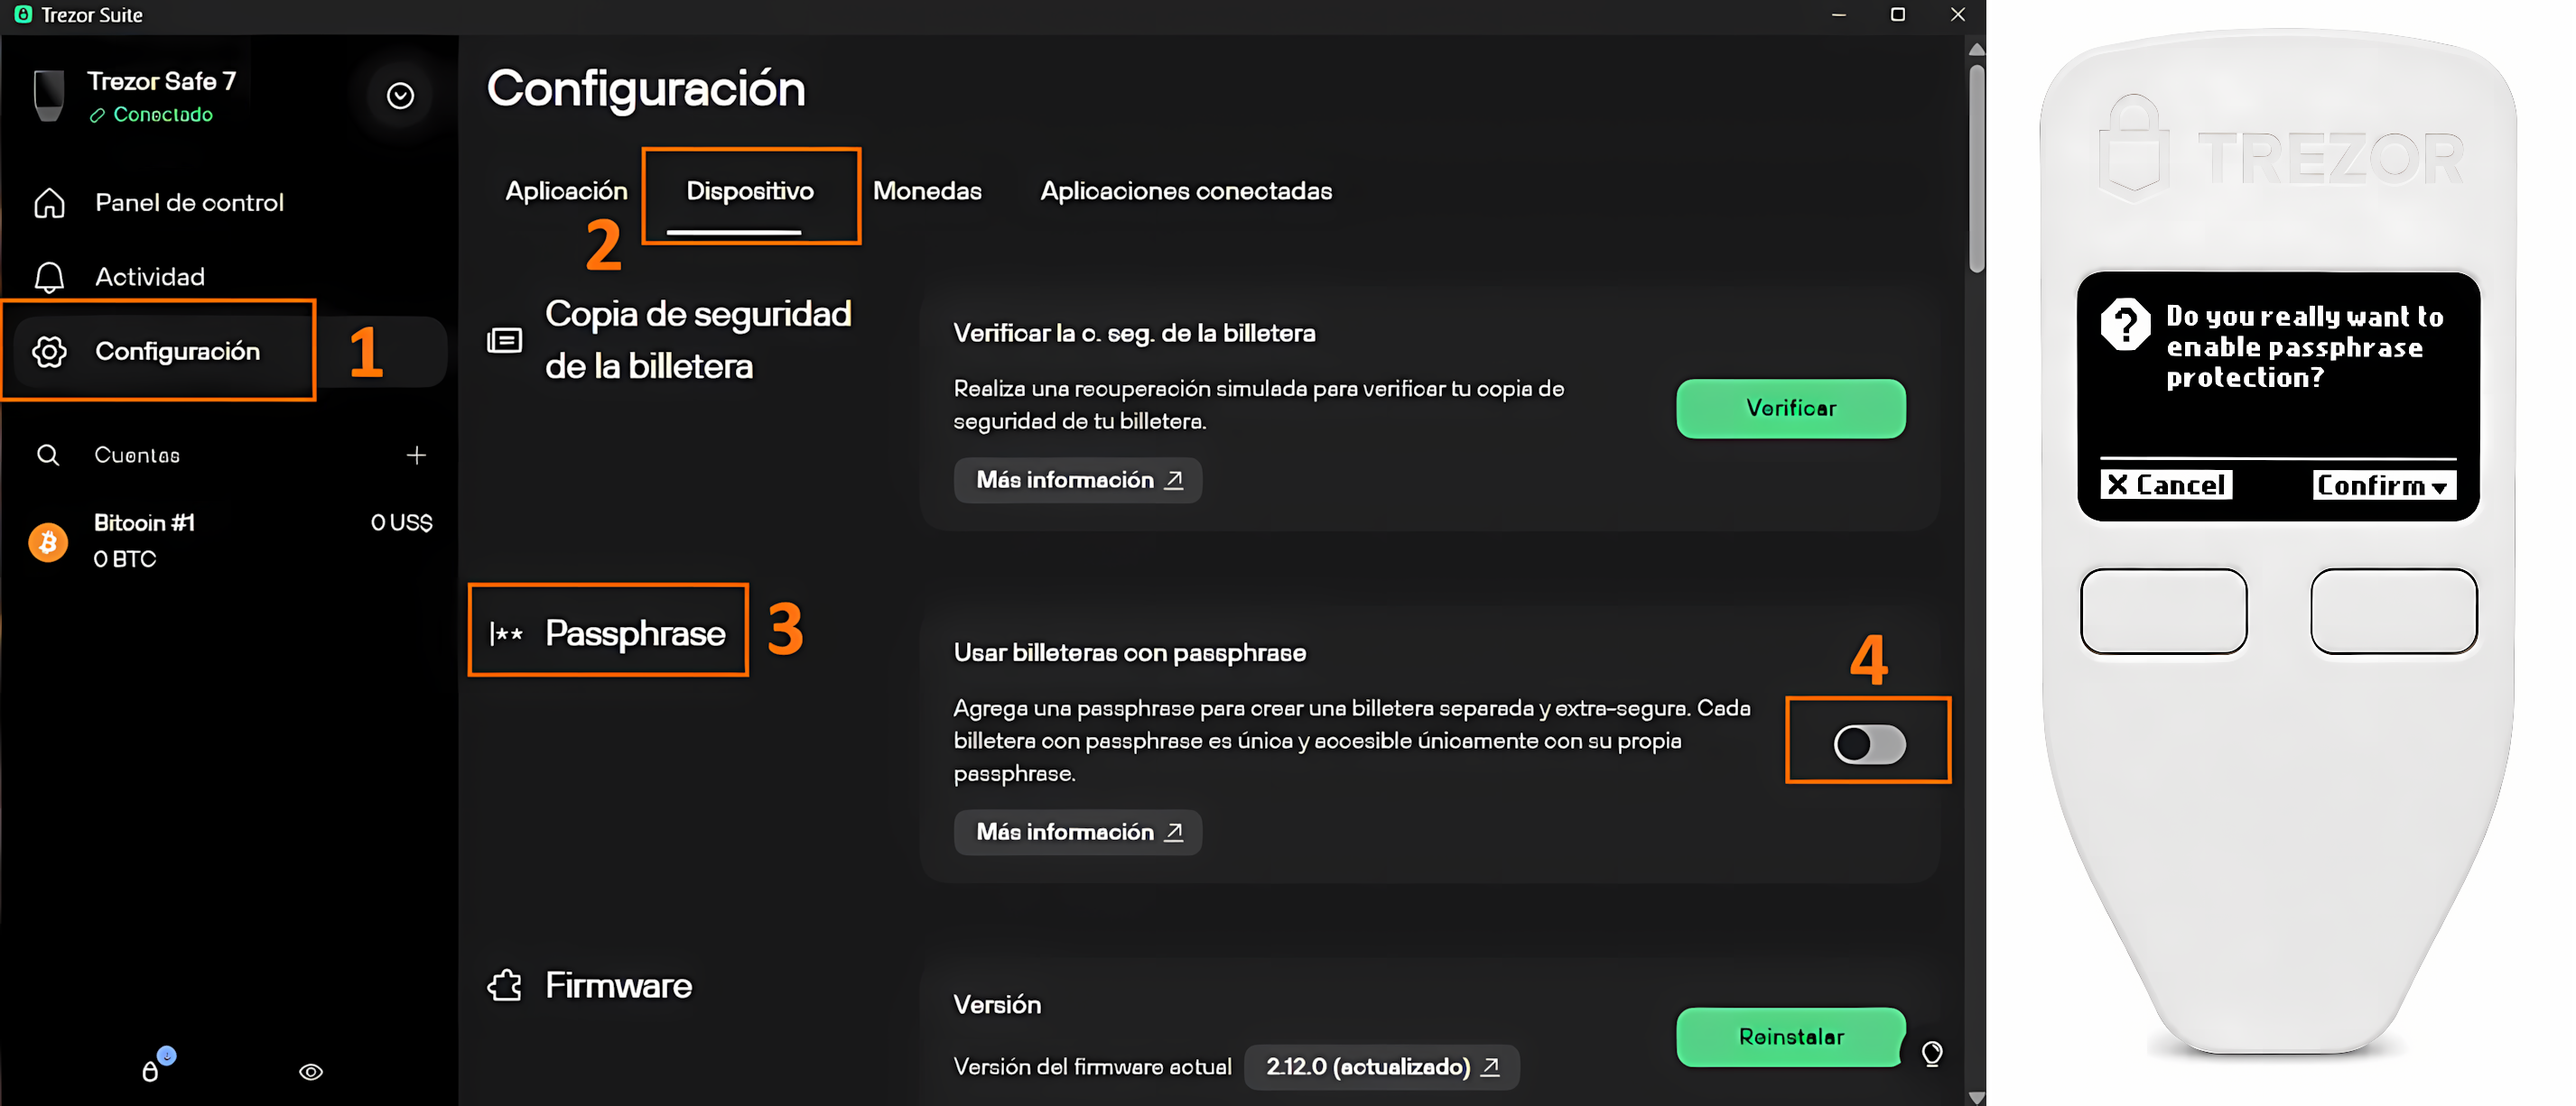
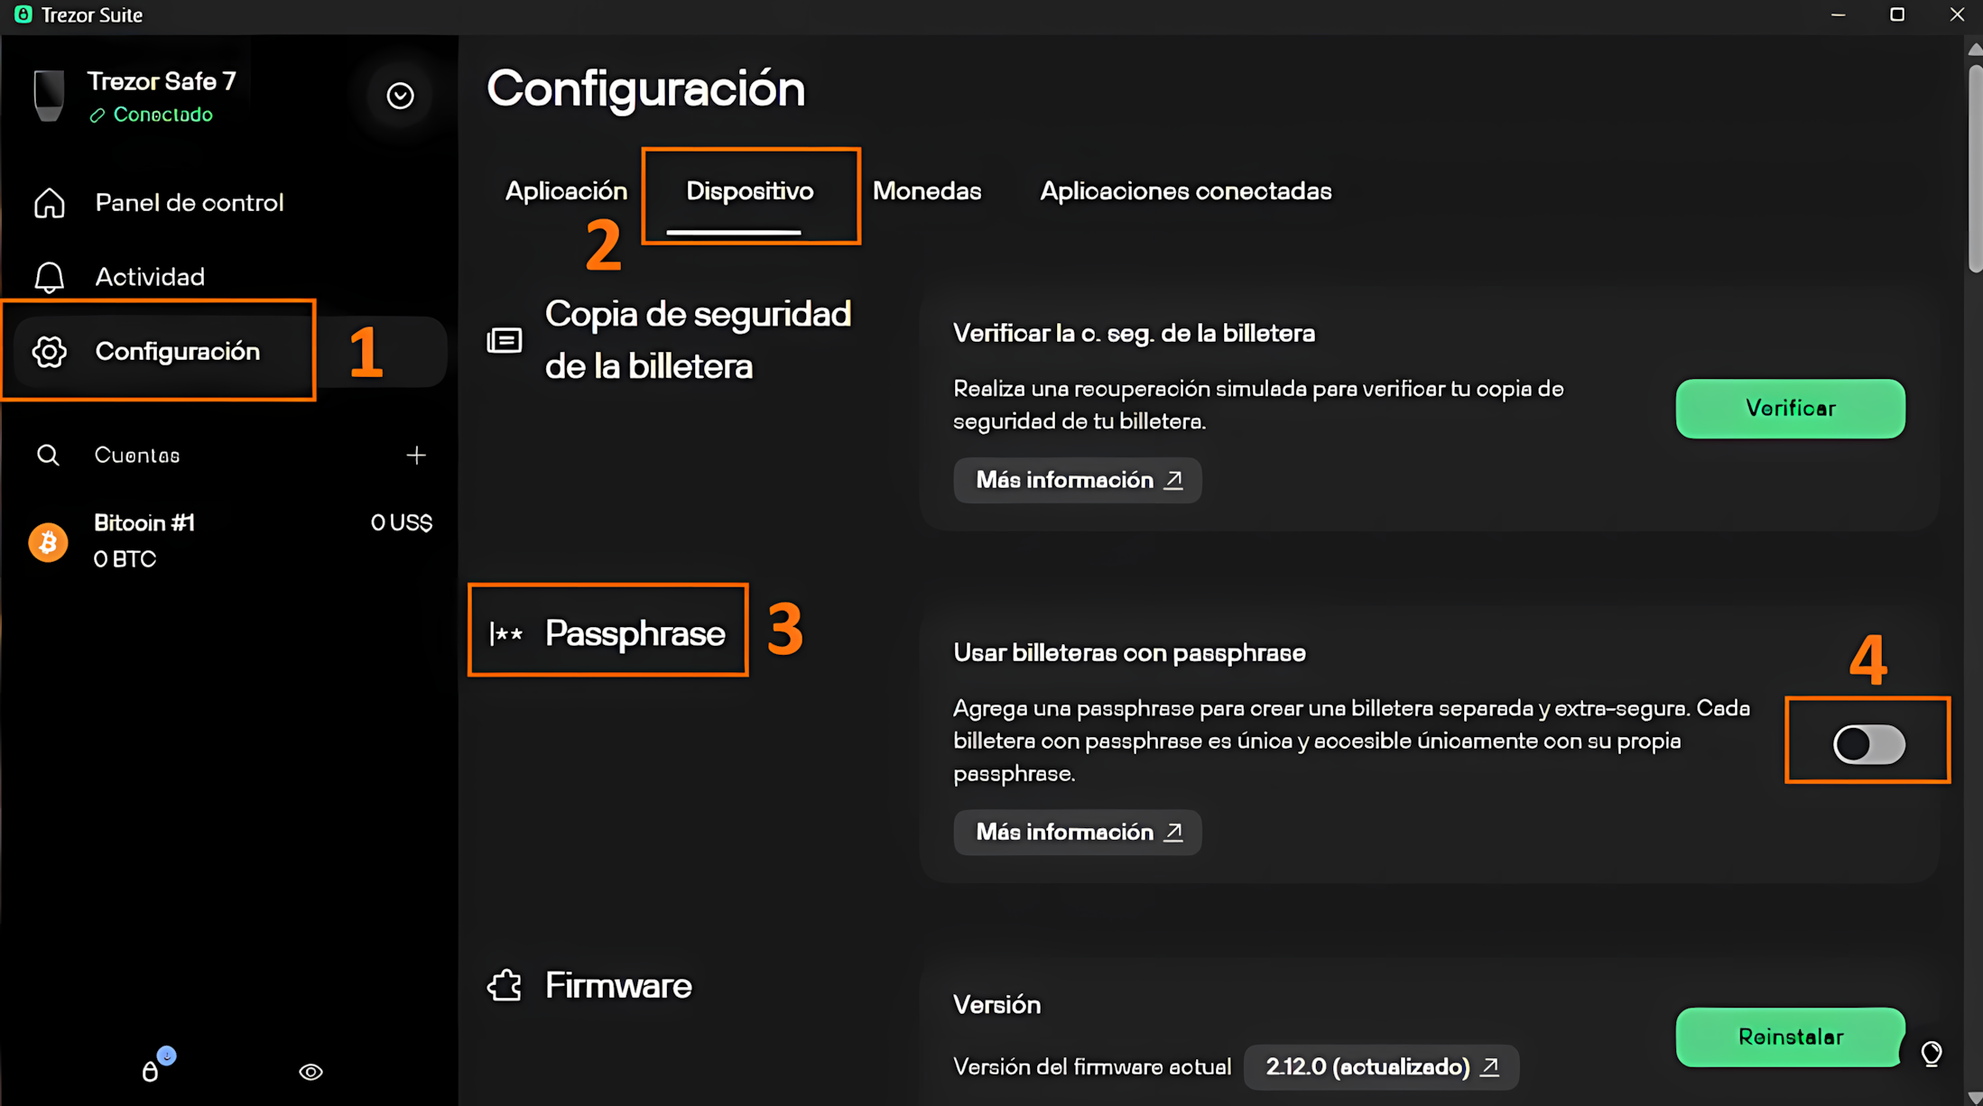
fix: Trezor One - actualizar imágenes 01 y 02 con composites revisados
01: solo Suite con pasos numerados (sin dispositivo)
02: selector de wallets + dispositivo confirmando enable

diff --git a/index.html b/index.html
@@ -4389,31 +4389,31 @@ Write down the fingerprint alongside the seed and passphrase backup. In each fut
     es: 'Trezor One', en: 'Trezor One',
     steps: [
       {
-        f: 'hw-trezor-one-01.png', imgW: 680,
-        es: 'Habilitar Passphrase en Trezor Suite ➜ Confirmar en el dispositivo',
-        en: 'Enable Passphrase in Trezor Suite ➜ Confirm on device',
+        f: 'hw-trezor-one-01.png', imgW: 560,
+        es: 'Habilitar Passphrase en Trezor Suite',
+        en: 'Enable Passphrase in Trezor Suite',
         des: `Conectar la Trezor One y abrir <strong>Trezor Suite</strong> (desktop).<br><br>
-        Seguir los pasos marcados en la imagen: <strong>① Configuración ➜ ② Dispositivo ➜ ③ Passphrase ➜ ④ activar el toggle</strong> "Usar billeteras con passphrase".<br><br>
-        El dispositivo pregunta: <strong>"Do you really want to enable passphrase protection?"</strong> Presionar el <strong>botón derecho (Confirm)</strong>.<br><br>
+        Seguir los pasos marcados: <strong>① Configuración ➜ ② Dispositivo ➜ ③ Passphrase ➜ ④ activar el toggle</strong> "Usar billeteras con passphrase".<br><br>
         <div class="info">La Trezor One tiene <strong>dos botones físicos</strong>, sin pantalla táctil. Botón izquierdo = Cancel, botón derecho = Confirm. Esta activación se hace una sola vez.</div>`,
         den: `Connect the Trezor One and open <strong>Trezor Suite</strong> (desktop).<br><br>
         Follow the steps shown: <strong>① Settings ➜ ② Device ➜ ③ Passphrase ➜ ④ enable the toggle</strong> "Use passphrase wallets".<br><br>
-        The device asks: <strong>"Do you really want to enable passphrase protection?"</strong> Press the <strong>right button (Confirm)</strong>.<br><br>
         <div class="info">Trezor One has <strong>two physical buttons</strong>, no touchscreen. Left = Cancel, right = Confirm. This activation is done only once.</div>`
       },
       {
-        f: 'hw-trezor-one-02.png', imgW: 560,
-        es: 'Selector de wallets ➜ + Billetera con passphrase ➜ Nueva passphrase',
-        en: 'Wallet selector ➜ + Passphrase wallet ➜ New passphrase',
-        des: `Trezor Suite muestra el selector de wallets. Hacer clic en <strong>"+ Billetera con passphrase"</strong>.<br><br>
+        f: 'hw-trezor-one-02.png', imgW: 680,
+        es: 'Dispositivo confirma ➜ Selector de wallets ➜ Nueva passphrase',
+        en: 'Device confirms ➜ Wallet selector ➜ New passphrase',
+        des: `El dispositivo pregunta: <strong>"Do you really want to enable passphrase protection?"</strong> Presionar el <strong>botón derecho (Confirm)</strong>.<br><br>
+        Suite muestra el selector de wallets con la nueva opción <strong>"+ Billetera con passphrase"</strong>. Hacer clic ahí.<br><br>
         Se despliegan dos opciones:<br>
         - <strong>+ Nueva passphrase</strong>: para crear una wallet nueva<br>
-        - <strong>Abrir usado previamente</strong> (ALT+P): para acceder a una passphrase ya usada<br><br>
+        - <strong>Abrir usado previamente</strong> (ALT+P): para acceder a una ya usada<br><br>
         Seleccionar <strong>"+ Nueva passphrase"</strong> para continuar.`,
-        den: `Trezor Suite shows the wallet selector. Click <strong>"+ Passphrase wallet"</strong>.<br><br>
+        den: `The device asks: <strong>"Do you really want to enable passphrase protection?"</strong> Press the <strong>right button (Confirm)</strong>.<br><br>
+        Suite shows the wallet selector with the new <strong>"+ Passphrase wallet"</strong> option. Click it.<br><br>
         Two options appear:<br>
         - <strong>+ New passphrase</strong>: to create a new wallet<br>
-        - <strong>Open previously used</strong> (ALT+P): to access a previously used passphrase<br><br>
+        - <strong>Open previously used</strong> (ALT+P): to access a previously used one<br><br>
         Select <strong>"+ New passphrase"</strong> to continue.`
       },
       {
